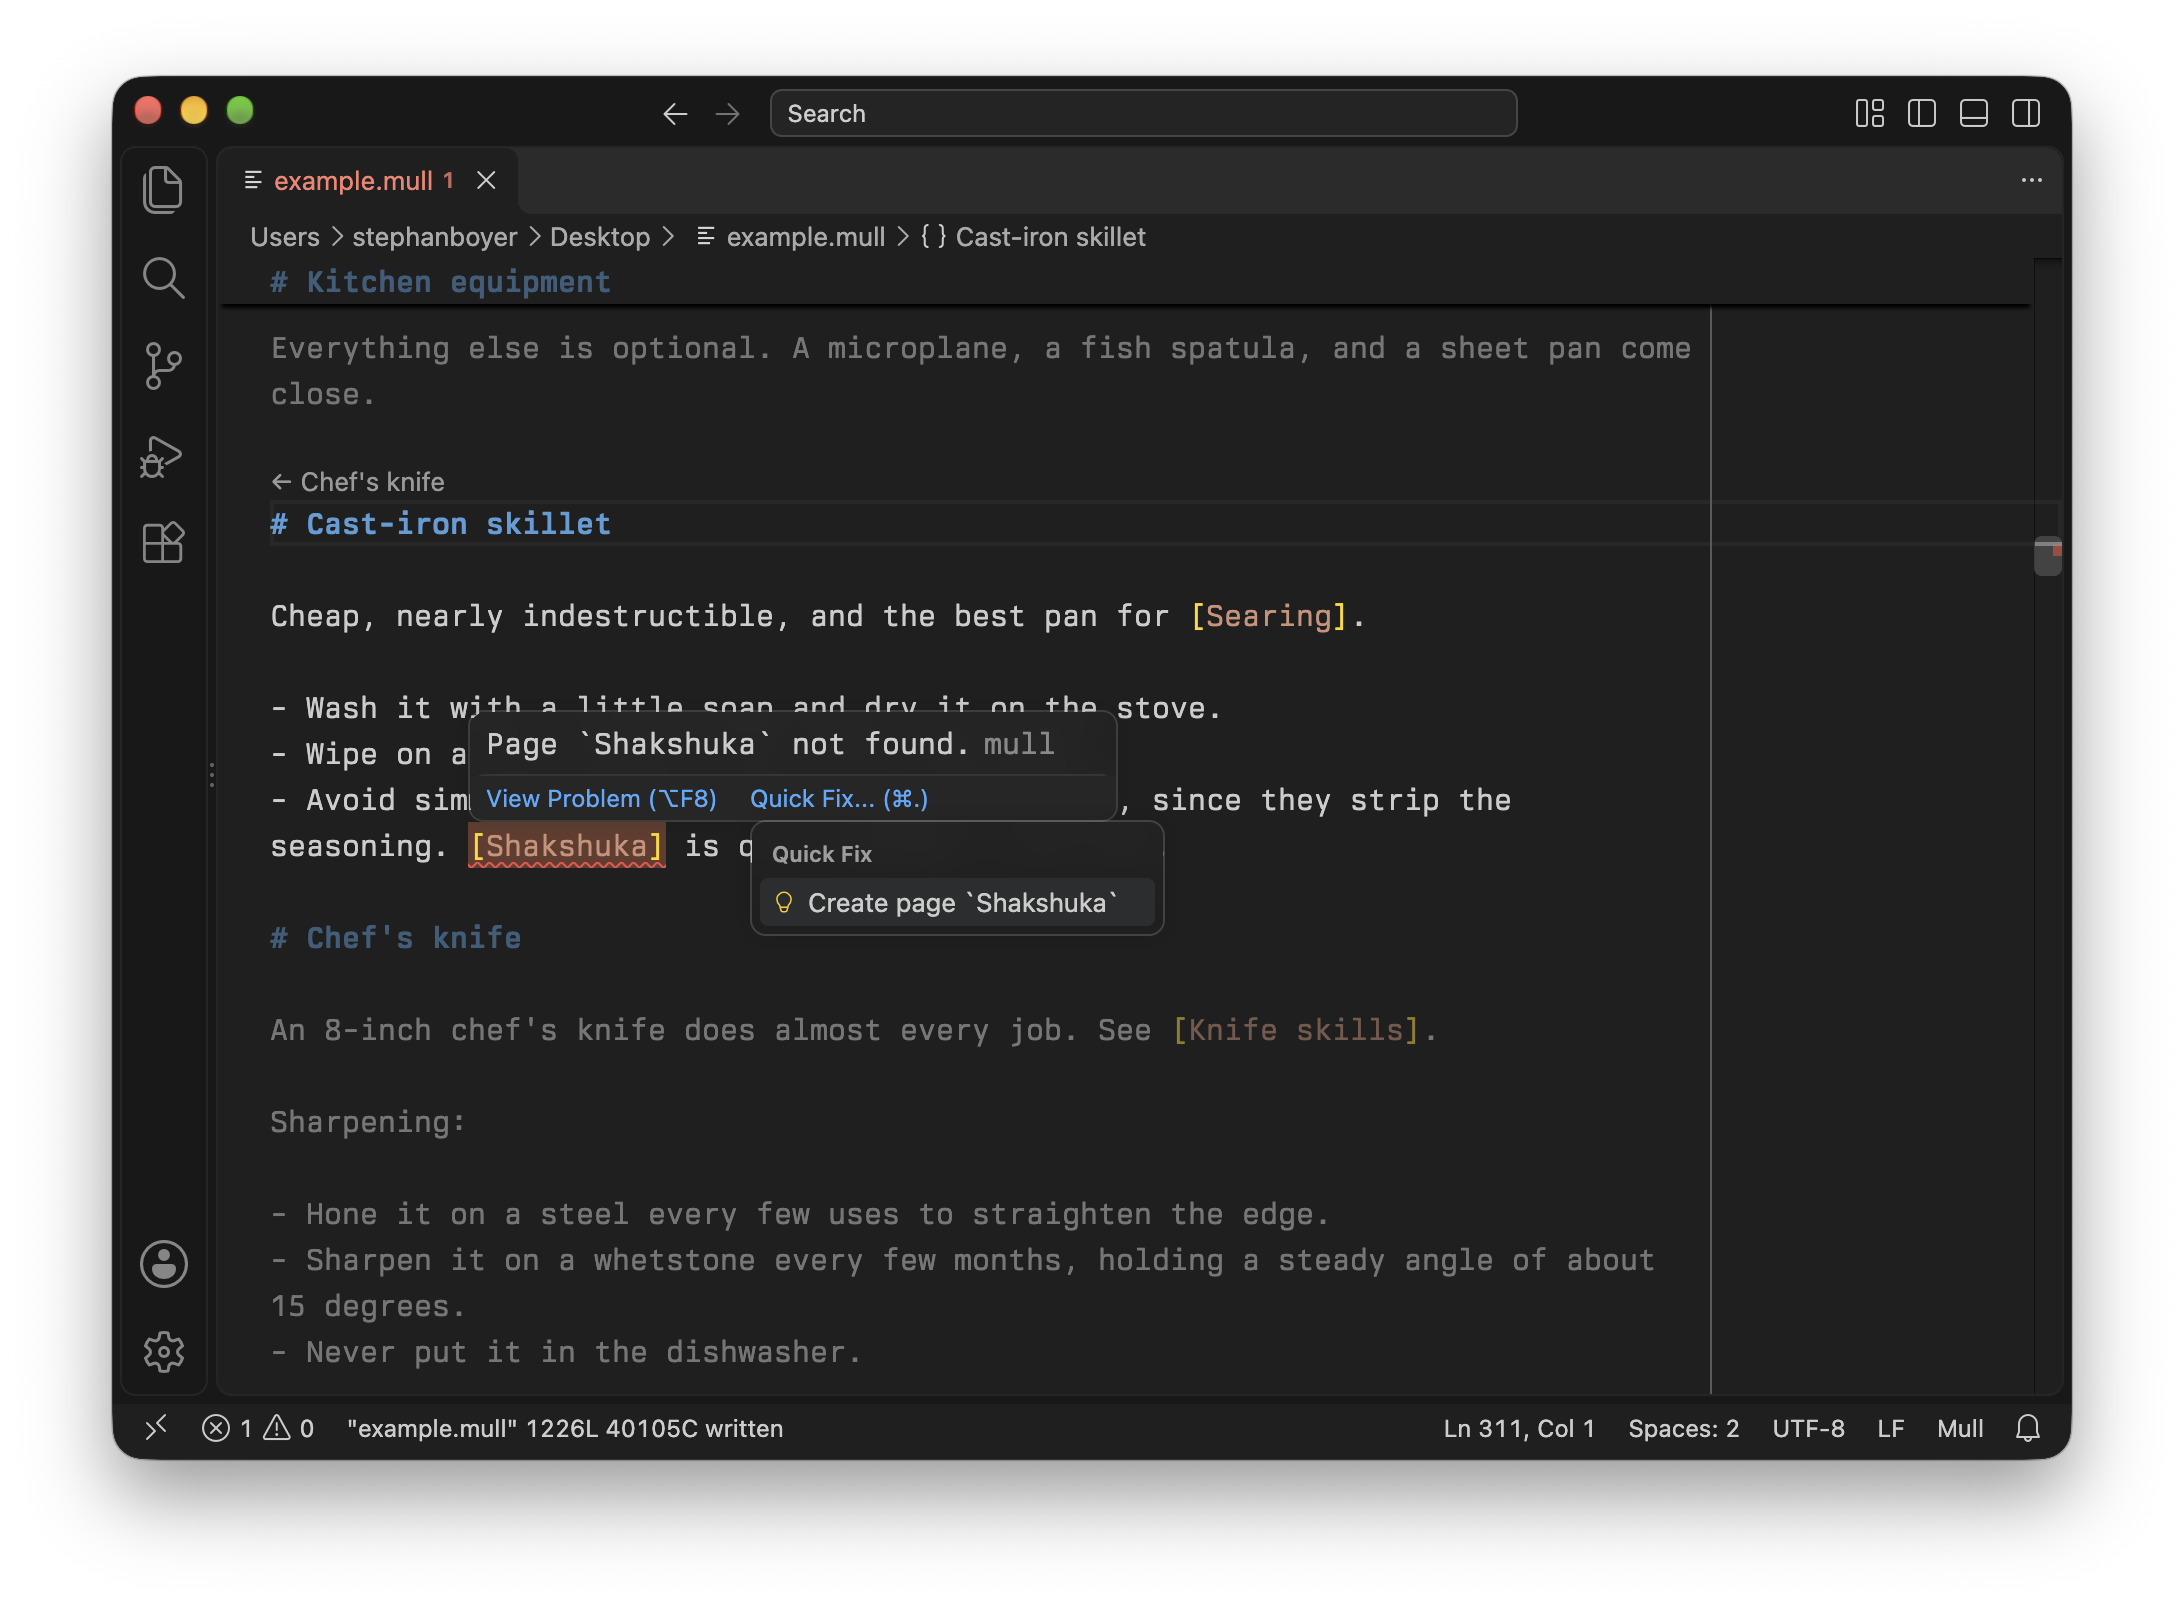
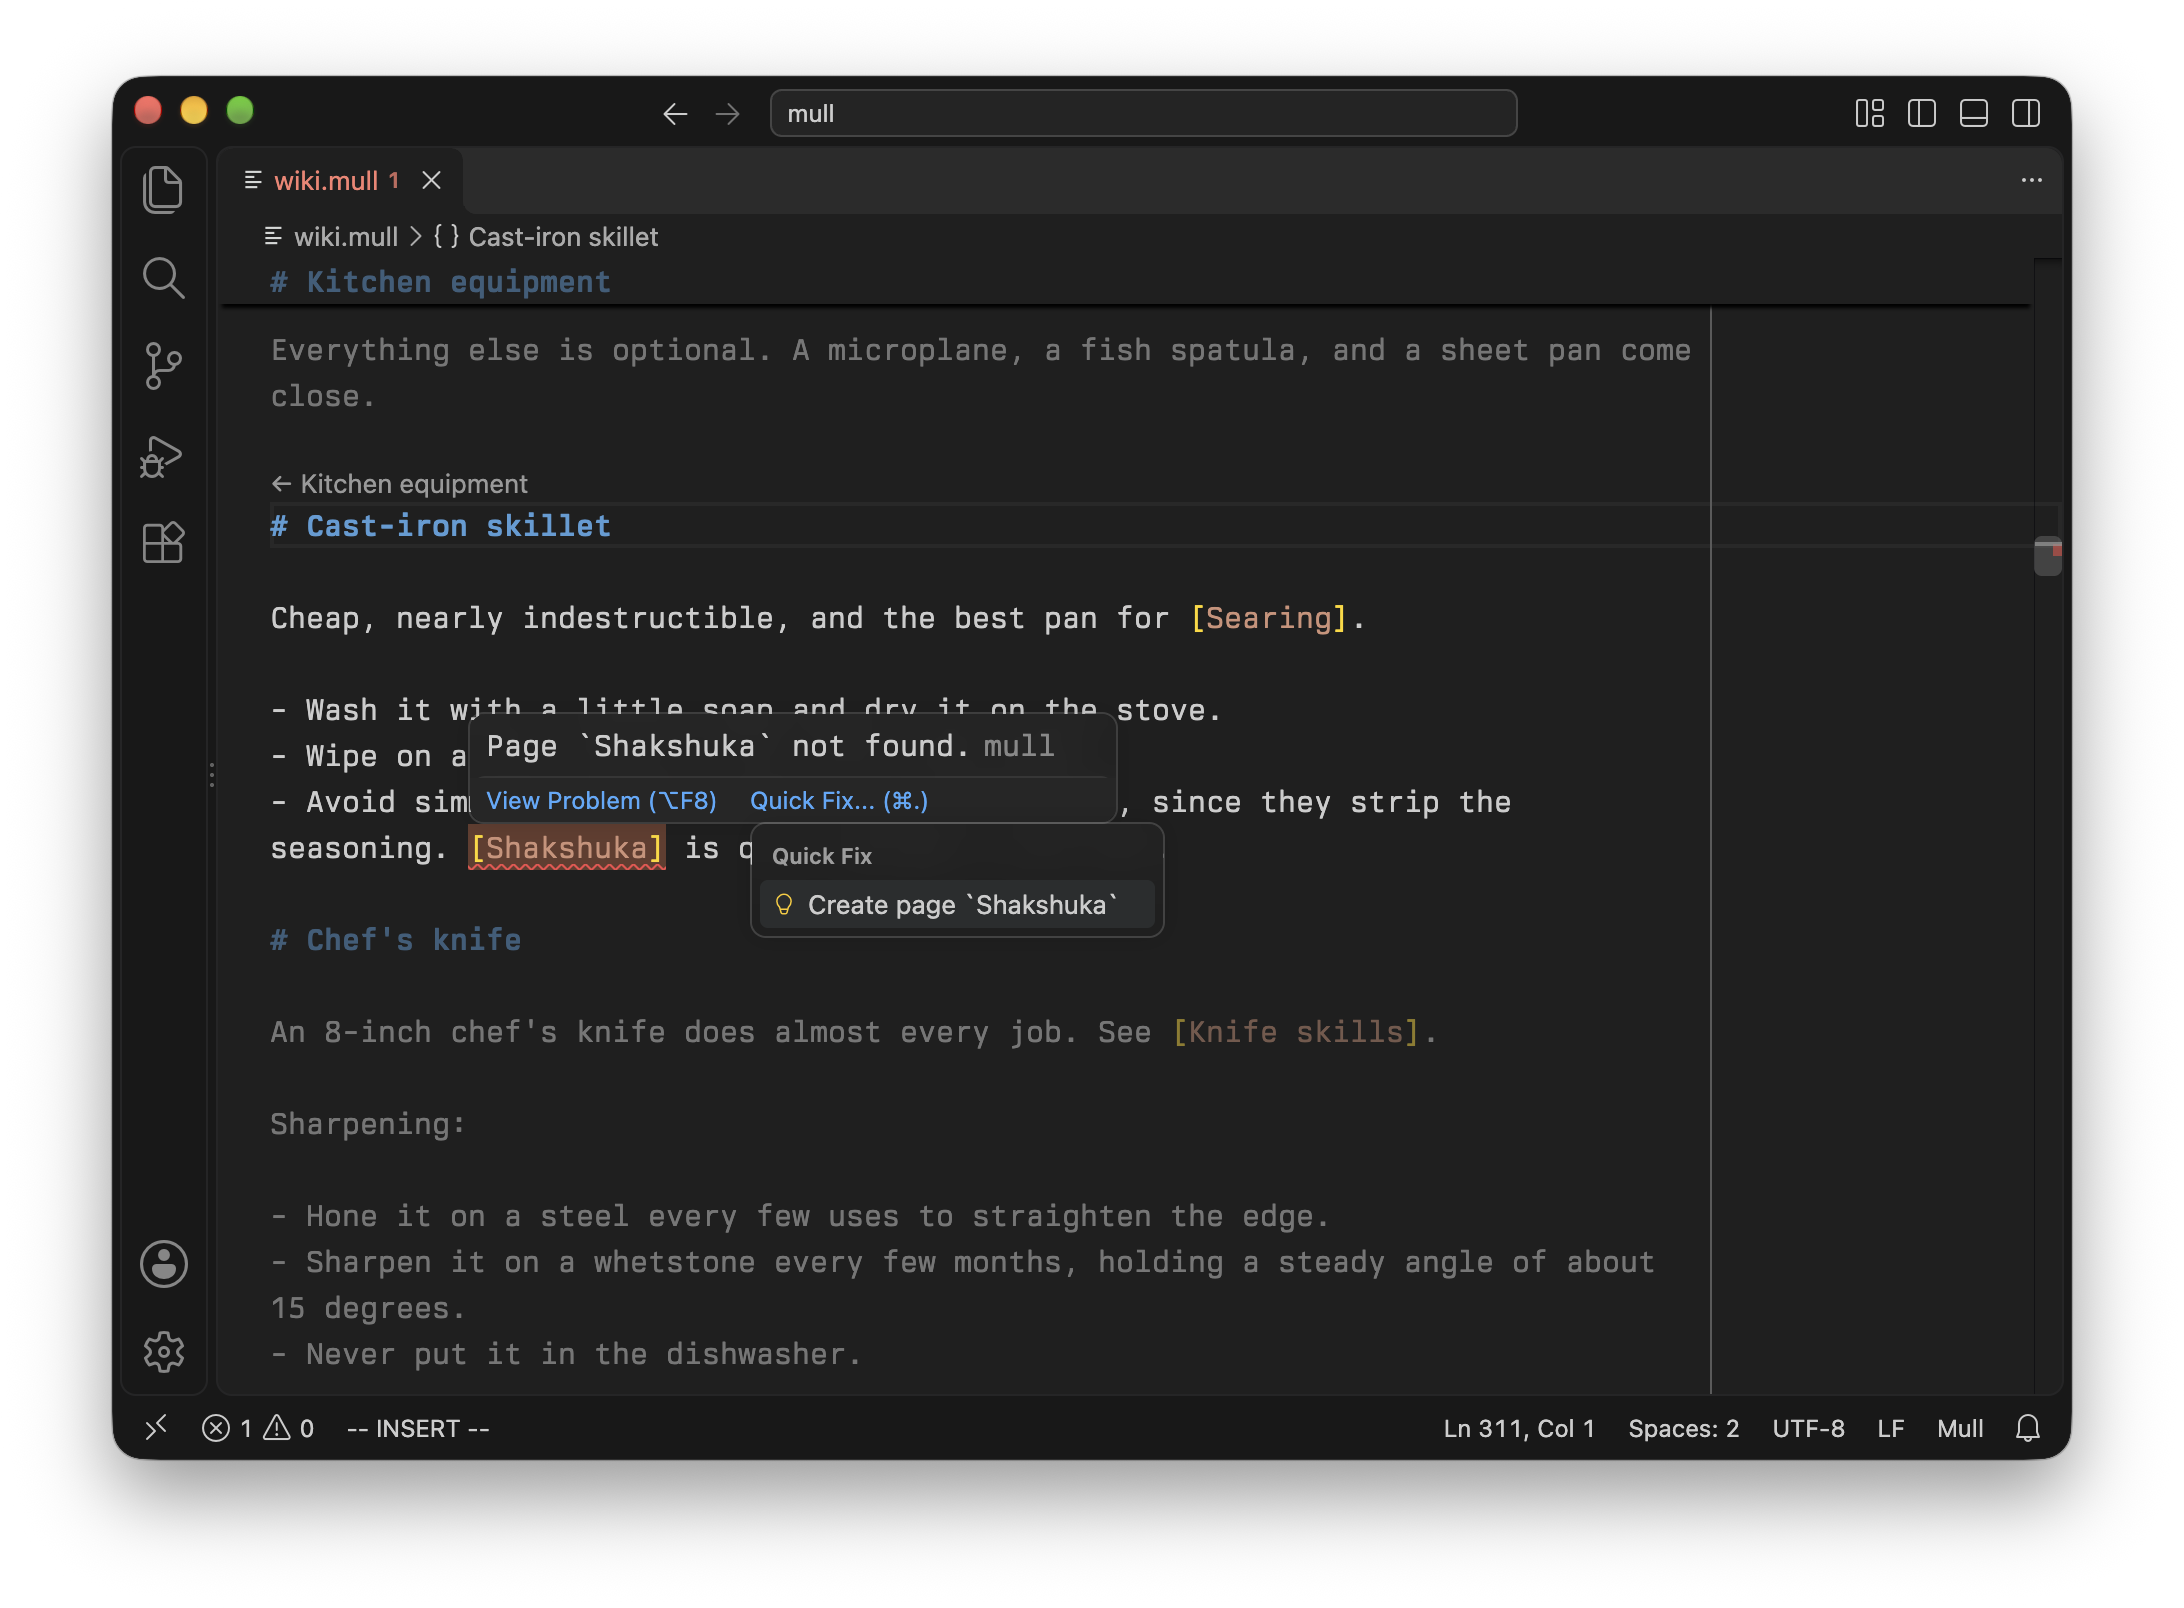
Update the screenshots and installation instructions (#214)
* Update the screenshots

* Point manual macOS and Linux installs to the extension instructions

* Clarify that PREFIX controls where the binary is installed

diff --git a/README.md b/README.md
@@ -112,7 +112,7 @@ Options:
 
 To use Mull, you must install the binary and optionally the Visual Studio Code / Cursor extension.
 
-### Installing the binary on macOS or Linux (AArch64 or x86-64)
+### Installing on macOS or Linux (AArch64 or x86-64)
 
 If you're running macOS or Linux (AArch64 or x86-64), you can install Mull with this command:
 
@@ -129,7 +129,7 @@ The installation script supports the following optional environment variables:
 - `VERSION=x.y.z` (defaults to the latest version)
 - `PREFIX=/path/to/install` (defaults to `/usr/local/bin`)
 
-For example, the following will install Mull into the working directory:
+For example, the following will install the binary into the working directory:
 
 ```sh
 curl https://raw.githubusercontent.com/stepchowfun/mull/main/install.sh -LSfs | PREFIX=. sh
@@ -137,7 +137,7 @@ curl https://raw.githubusercontent.com/stepchowfun/mull/main/install.sh -LSfs | 
 
 Note that if you change the installation path, you may also need to change the `mull.executablePath` accordingly in Visual Studio Code or Cursor.
 
-If you prefer not to use this installation method, you can download the binary from the [releases page](https://github.com/stepchowfun/mull/releases), make it executable (e.g., with `chmod`), and place it in some directory in your [`PATH`](https://en.wikipedia.org/wiki/PATH_\(variable\)) (e.g., `/usr/local/bin`).
+If you prefer not to use this installation method, you can download the binary from the [releases page](https://github.com/stepchowfun/mull/releases), make it executable (e.g., with `chmod`), and place it in some directory in your [`PATH`](https://en.wikipedia.org/wiki/PATH_\(variable\)) (e.g., `/usr/local/bin`). You can then follow the instructions [below](#installation-of-the-visual-studio-code--cursor-extension) to install the Visual Studio Code / Cursor extension.
 
 ### Installing the binary on Windows (AArch64 or x86-64)
 
